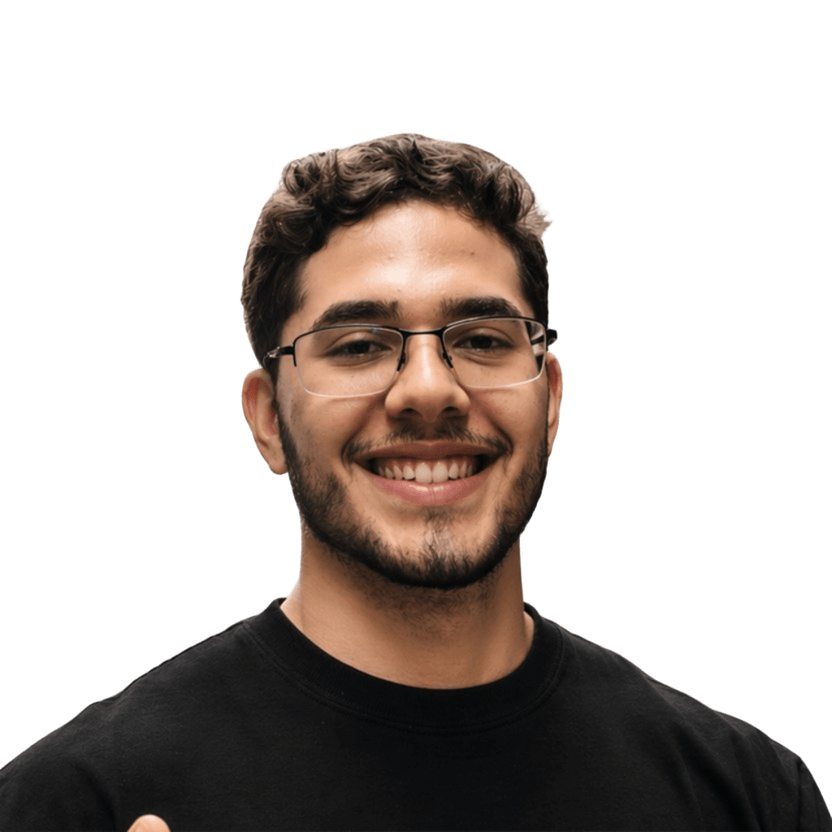
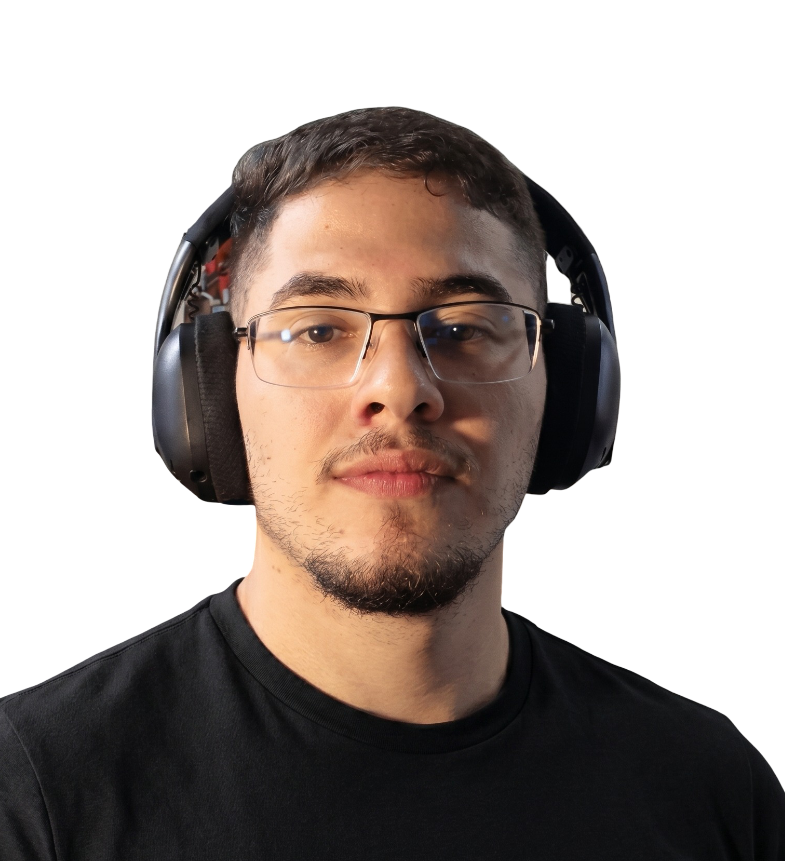
feat: enhance AdminLoginPage and BlogPage with animations and reading time indicators

diff --git a/src/pages/BlogPage.tsx b/src/pages/BlogPage.tsx
@@ -1,10 +1,15 @@
 import { motion } from 'framer-motion';
-import { ArrowLeft, ArrowUpRight, Heart, PenLine } from 'lucide-react';
+import { ArrowLeft, ArrowUpRight, Clock, Heart, PenLine } from 'lucide-react';
 import { Link } from 'react-router-dom';
 import Seo from '@/components/Seo';
 import { useLanguage } from '@/contexts/LanguageContext';
 import { usePublishedPosts } from '@/hooks/usePosts';
 import { getBreadcrumbStructuredData } from '@/lib/seo';
+import type { Post } from '@/lib/supabase';
+
+/** Tempo de leitura aproximado (200 palavras/min). */
+const readingMinutes = (content: string) =>
+  Math.max(1, Math.round(content.trim().split(/\s+/).filter(Boolean).length / 200));
 
 const BlogPage = () => {
   const { locale } = useLanguage();
@@ -19,7 +24,8 @@ const BlogPage = () => {
         back: 'Voltar para o início',
         empty: 'Em breve os primeiros posts.',
         emptyHint: 'A estrutura já está pronta — é só escrever.',
-        read: 'Ler',
+        read: 'Ler artigo',
+        min: 'min de leitura',
         count: (n: number) => `${n} ${n === 1 ? 'artigo' : 'artigos'}`,
       }
     : {
@@ -30,7 +36,8 @@ const BlogPage = () => {
         back: 'Back to home',
         empty: 'The first posts are coming soon.',
         emptyHint: 'The structure is ready — just write.',
-        read: 'Read',
+        read: 'Read article',
+        min: 'min read',
         count: (n: number) => `${n} ${n === 1 ? 'article' : 'articles'}`,
       };
 
@@ -39,6 +46,22 @@ const BlogPage = () => {
     month: 'short',
     year: 'numeric',
   });
+
+  const Meta = ({ post }: { post: Post }) => (
+    <div className="flex flex-wrap items-center gap-x-3 gap-y-1 text-xs font-medium uppercase tracking-[0.12em] text-muted-foreground">
+      <time dateTime={post.created_at}>{dateFormatter.format(new Date(post.created_at))}</time>
+      <span aria-hidden className="text-foreground/20">•</span>
+      <span className="inline-flex items-center gap-1">
+        <Clock className="h-3 w-3" />
+        {readingMinutes(post.content)} {copy.min}
+      </span>
+      <span aria-hidden className="text-foreground/20">•</span>
+      <span className="inline-flex items-center gap-1">
+        <Heart className="h-3 w-3" />
+        {post.likes_count}
+      </span>
+    </div>
+  );
 
   return (
     <>
@@ -67,7 +90,7 @@ const BlogPage = () => {
           initial={{ opacity: 0, y: 16 }}
           animate={{ opacity: 1, y: 0 }}
           transition={{ duration: 0.45, ease: 'easeOut' }}
-          className="mx-auto max-w-3xl rounded-[1.75rem] bg-card px-6 py-9 [box-shadow:0_24px_64px_-40px_rgba(0,0,0,0.5),inset_0_0_0_1px_rgba(235,236,237,0.08)] sm:px-10 sm:py-12"
+          className="mx-auto max-w-7xl"
         >
           {/* Cabeçalho */}
           <header>
@@ -80,28 +103,31 @@ const BlogPage = () => {
               )}
             </div>
 
-            <h1 className="mt-5 text-balance text-2xl font-bold leading-tight tracking-tight text-foreground sm:text-3xl">
+            <h1 className="mt-6 text-balance text-3xl font-extrabold leading-[1.1] tracking-tight text-foreground sm:text-[2.6rem]">
               {copy.title}
             </h1>
 
-            <p className="mt-3 max-w-xl text-sm leading-relaxed text-muted-foreground">
+            <p className="mt-4 max-w-2xl text-[0.95rem] leading-relaxed text-muted-foreground">
               {copy.description}
             </p>
           </header>
 
-          <div className="mt-8 h-px w-full bg-foreground/10" />
+          <div className="accent-line mt-9" />
 
           {/* Conteúdo */}
           {isLoading ? (
-            <div className="mt-8 space-y-8">
+            <ul className="mt-4 divide-y divide-foreground/10">
               {[0, 1, 2].map((i) => (
-                <div key={i} className="space-y-3">
+                <li key={i} className="grid gap-6 py-7 sm:grid-cols-[10rem_1fr]">
                   <div className="h-3 w-28 animate-pulse rounded bg-foreground/10" />
-                  <div className="h-5 w-3/4 animate-pulse rounded bg-foreground/10" />
-                  <div className="h-3 w-full animate-pulse rounded bg-foreground/5" />
-                </div>
+                  <div className="space-y-3">
+                    <div className="h-5 w-2/3 animate-pulse rounded bg-foreground/10" />
+                    <div className="h-3 w-full animate-pulse rounded bg-foreground/5" />
+                    <div className="h-3 w-4/5 animate-pulse rounded bg-foreground/5" />
+                  </div>
+                </li>
               ))}
-            </div>
+            </ul>
           ) : posts && posts.length > 0 ? (
             <ul className="mt-2 divide-y divide-foreground/10">
               {posts.map((post, index) => (
@@ -109,29 +135,25 @@ const BlogPage = () => {
                   key={post.id}
                   initial={{ opacity: 0, y: 12 }}
                   animate={{ opacity: 1, y: 0 }}
-                  transition={{ duration: 0.35, ease: 'easeOut', delay: 0.05 + index * 0.05 }}
+                  transition={{ duration: 0.35, ease: 'easeOut', delay: 0.05 + index * 0.04 }}
                 >
-                  <Link to={`/blog/${post.slug}`} className="group block py-6">
-                    <div className="flex items-center gap-3 text-xs font-medium uppercase tracking-[0.12em] text-muted-foreground">
-                      <time dateTime={post.created_at}>{dateFormatter.format(new Date(post.created_at))}</time>
-                      <span aria-hidden className="text-foreground/20">•</span>
-                      <span className="inline-flex items-center gap-1">
-                        <Heart className="h-3 w-3" />
-                        {post.likes_count}
-                      </span>
-                    </div>
+                  <Link
+                    to={`/blog/${post.slug}`}
+                    className="group block py-7"
+                  >
+                    <Meta post={post} />
 
-                    <h2 className="mt-2 text-lg font-semibold leading-snug text-foreground transition-colors group-hover:text-foreground/60 sm:text-xl">
+                    <h2 className="mt-2.5 text-balance text-xl font-semibold leading-snug text-foreground transition-colors group-hover:text-foreground/65 sm:text-2xl">
                       {post.title}
                     </h2>
 
                     {post.excerpt && (
-                      <p className="mt-2 line-clamp-2 text-sm leading-relaxed text-muted-foreground">
+                      <p className="mt-2 line-clamp-2 max-w-3xl text-sm leading-relaxed text-muted-foreground sm:text-[0.95rem]">
                         {post.excerpt}
                       </p>
                     )}
 
-                    <span className="mt-3 inline-flex items-center gap-1.5 text-sm font-semibold text-foreground/80 transition-colors group-hover:text-foreground">
+                    <span className="mt-3.5 inline-flex items-center gap-1.5 text-sm font-semibold text-foreground/70 transition-colors group-hover:text-foreground">
                       {copy.read}
                       <ArrowUpRight className="h-3.5 w-3.5 transition-transform group-hover:translate-x-0.5 group-hover:-translate-y-0.5" />
                     </span>
@@ -140,7 +162,7 @@ const BlogPage = () => {
               ))}
             </ul>
           ) : (
-            <div className="mt-8 flex items-start gap-4 rounded-2xl bg-secondary/50 p-5 subtle-stroke">
+            <div className="mt-10 flex items-start gap-4 rounded-2xl bg-secondary/50 p-5 subtle-stroke">
               <div className="flex h-10 w-10 shrink-0 items-center justify-center rounded-xl bg-secondary text-foreground">
                 <PenLine className="h-4 w-4" />
               </div>
@@ -151,7 +173,7 @@ const BlogPage = () => {
             </div>
           )}
 
-          <div className="mt-9">
+          <div className="mt-12">
             <Link
               to="/"
               className="inline-flex items-center gap-2 text-sm font-semibold text-muted-foreground transition-colors hover:text-foreground"

diff --git a/src/pages/AdminLoginPage.tsx b/src/pages/AdminLoginPage.tsx
@@ -1,5 +1,6 @@
 import { FormEvent, useEffect, useState } from 'react';
 import { useNavigate } from 'react-router-dom';
+import { motion } from 'framer-motion';
 import { LogIn } from 'lucide-react';
 import { Button } from '@/components/ui/button';
 import { Input } from '@/components/ui/input';
@@ -30,20 +31,30 @@ const AdminLoginPage = () => {
       setError('E-mail ou senha inválidos.');
       return;
     }
+
     navigate('/admin', { replace: true });
   };
 
   return (
-    <section className="site-shell flex min-h-[70vh] items-center justify-center px-4 py-10">
+    <section className="site-shell flex min-h-[72vh] items-center justify-center px-4 py-10">
       <Seo title="Login do painel" description="Acesso restrito ao painel do blog." path="/admin/login" noindex />
-      <div className="w-full max-w-md rounded-[1.8rem] bg-card p-8 [box-shadow:0_24px_64px_-34px_rgba(17,17,17,0.14),inset_0_0_0_1px_rgba(17,17,17,0.06)]">
-        <span className="eyebrow">Admin</span>
-        <h1 className="mt-4 text-3xl font-extrabold text-foreground">Entrar no painel</h1>
-        <p className="mt-2 text-sm text-muted-foreground">Área restrita para gerenciar os posts do blog.</p>
 
-        <form onSubmit={handleSubmit} className="mt-7 space-y-5">
+      <motion.div
+        initial={{ opacity: 0, y: 10 }}
+        animate={{ opacity: 1, y: 0 }}
+        transition={{ duration: 0.28, ease: 'easeOut' }}
+        className="w-full max-w-sm rounded-[1.5rem] bg-card p-6 [box-shadow:0_24px_64px_-44px_rgba(0,0,0,0.65),inset_0_0_0_1px_rgba(235,236,237,0.08)] sm:p-7"
+      >
+        <div className="text-center">
+          <span className="eyebrow">Admin</span>
+          <h1 className="mt-4 text-2xl font-bold tracking-tight text-foreground">Entrar</h1>
+        </div>
+
+        <form onSubmit={handleSubmit} className="mt-7 space-y-4">
           <div className="space-y-2">
-            <Label htmlFor="email">E-mail</Label>
+            <Label htmlFor="email" className="text-sm font-semibold text-foreground">
+              E-mail
+            </Label>
             <Input
               id="email"
               type="email"
@@ -51,11 +62,14 @@ const AdminLoginPage = () => {
               required
               value={email}
               onChange={(e) => setEmail(e.target.value)}
+              className="h-11 rounded-xl bg-background/70"
             />
           </div>
 
           <div className="space-y-2">
-            <Label htmlFor="password">Senha</Label>
+            <Label htmlFor="password" className="text-sm font-semibold text-foreground">
+              Senha
+            </Label>
             <Input
               id="password"
               type="password"
@@ -63,17 +77,18 @@ const AdminLoginPage = () => {
               required
               value={password}
               onChange={(e) => setPassword(e.target.value)}
+              className="h-11 rounded-xl bg-background/70"
             />
           </div>
 
           {error && <p className="text-sm font-medium text-destructive">{error}</p>}
 
-          <Button type="submit" disabled={submitting} className="w-full">
+          <Button type="submit" disabled={submitting} className="h-11 w-full rounded-xl font-bold">
             <LogIn className="h-4 w-4" />
-            {submitting ? 'Entrando…' : 'Entrar'}
+            {submitting ? 'Entrando...' : 'Entrar'}
           </Button>
         </form>
-      </div>
+      </motion.div>
     </section>
   );
 };

diff --git a/src/pages/BlogPostPage.tsx b/src/pages/BlogPostPage.tsx
@@ -1,5 +1,5 @@
 import { motion } from 'framer-motion';
-import { ArrowLeft } from 'lucide-react';
+import { ArrowLeft, Clock } from 'lucide-react';
 import { Link, useParams } from 'react-router-dom';
 import ReactMarkdown from 'react-markdown';
 import remarkGfm from 'remark-gfm';
@@ -9,14 +9,18 @@ import { useLanguage } from '@/contexts/LanguageContext';
 import { usePost } from '@/hooks/usePosts';
 import { getBreadcrumbStructuredData } from '@/lib/seo';
 
+/** Tempo de leitura aproximado (200 palavras/min). */
+const readingMinutes = (content: string) =>
+  Math.max(1, Math.round(content.trim().split(/\s+/).filter(Boolean).length / 200));
+
 const BlogPostPage = () => {
   const { slug } = useParams<{ slug: string }>();
   const { locale } = useLanguage();
   const { data: post, isLoading, isError } = usePost(slug);
 
   const copy = locale === 'pt'
-    ? { back: 'Voltar para o blog', notFound: 'Post não encontrado', loading: 'Carregando…' }
-    : { back: 'Back to the blog', notFound: 'Post not found', loading: 'Loading…' };
+    ? { back: 'Voltar para o blog', notFound: 'Post não encontrado', loading: 'Carregando…', min: 'min de leitura' }
+    : { back: 'Back to the blog', notFound: 'Post not found', loading: 'Loading…', min: 'min read' };
 
   const dateFormatter = new Intl.DateTimeFormat(locale === 'pt' ? 'pt-BR' : 'en-US', {
     day: '2-digit',
@@ -26,7 +30,7 @@ const BlogPostPage = () => {
 
   return (
     <section className="site-shell px-4 py-6 sm:px-6 sm:py-10">
-      <div className="mx-auto max-w-3xl rounded-[1.75rem] bg-card px-6 py-9 [box-shadow:0_24px_64px_-40px_rgba(0,0,0,0.5),inset_0_0_0_1px_rgba(235,236,237,0.08)] sm:px-10 sm:py-12">
+      <div className="mx-auto max-w-7xl rounded-[1.75rem] bg-card px-6 py-9 [box-shadow:0_24px_64px_-40px_rgba(0,0,0,0.5),inset_0_0_0_1px_rgba(235,236,237,0.08)] sm:px-12 sm:py-12">
         {isLoading ? (
           <p className="text-sm text-muted-foreground">{copy.loading}</p>
         ) : isError || !post ? (
@@ -79,16 +83,21 @@ const BlogPostPage = () => {
               {copy.back}
             </Link>
 
-            <p className="mt-7 text-xs font-medium uppercase tracking-[0.12em] text-muted-foreground">
+            <div className="mt-7 flex flex-wrap items-center gap-x-3 gap-y-1 text-xs font-medium uppercase tracking-[0.12em] text-muted-foreground">
               <time dateTime={post.created_at}>{dateFormatter.format(new Date(post.created_at))}</time>
-            </p>
+              <span aria-hidden className="text-foreground/20">•</span>
+              <span className="inline-flex items-center gap-1">
+                <Clock className="h-3 w-3" />
+                {readingMinutes(post.content)} {copy.min}
+              </span>
+            </div>
 
-            <h1 className="mt-3 text-balance text-2xl font-bold leading-tight tracking-tight text-foreground sm:text-3xl">
+            <h1 className="mt-3 max-w-4xl text-balance text-2xl font-bold leading-tight tracking-tight text-foreground sm:text-3xl">
               {post.title}
             </h1>
 
             {post.excerpt && (
-              <p className="mt-4 text-base leading-relaxed text-muted-foreground">{post.excerpt}</p>
+              <p className="mt-4 max-w-3xl text-base leading-relaxed text-muted-foreground">{post.excerpt}</p>
             )}
 
             <div className="mt-7 h-px w-full bg-foreground/10" />

diff --git a/src/components/Hero3D.tsx b/src/components/Hero3D.tsx
@@ -53,7 +53,7 @@ const Hero3D = () => {
               </span>
             </div>
 
-            <p className="mt-8 text-xs font-semibold uppercase tracking-[0.2em] text-muted-foreground sm:text-sm">
+            <p className="mt-8 text-[0.65rem] font-semibold uppercase tracking-[0.18em] text-muted-foreground sm:text-xs">
               {h.subtitle}
             </p>
 

diff --git a/tailwind.config.ts b/tailwind.config.ts
@@ -115,5 +115,5 @@ export default {
       },
     },
   },
-  plugins: [require("tailwindcss-animate")],
+  plugins: [require("tailwindcss-animate"), require("@tailwindcss/typography")],
 } satisfies Config;
